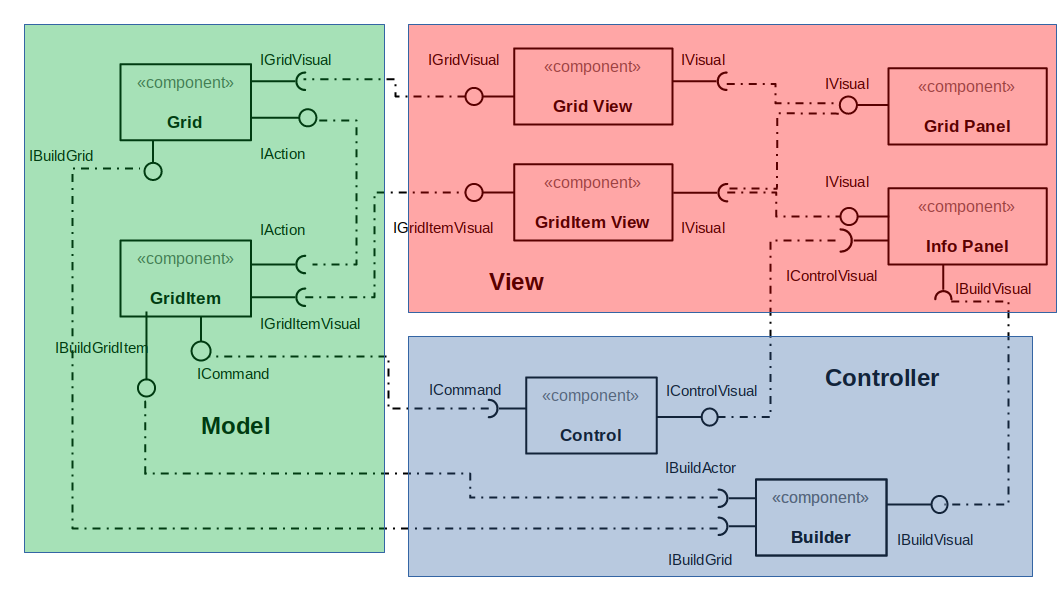
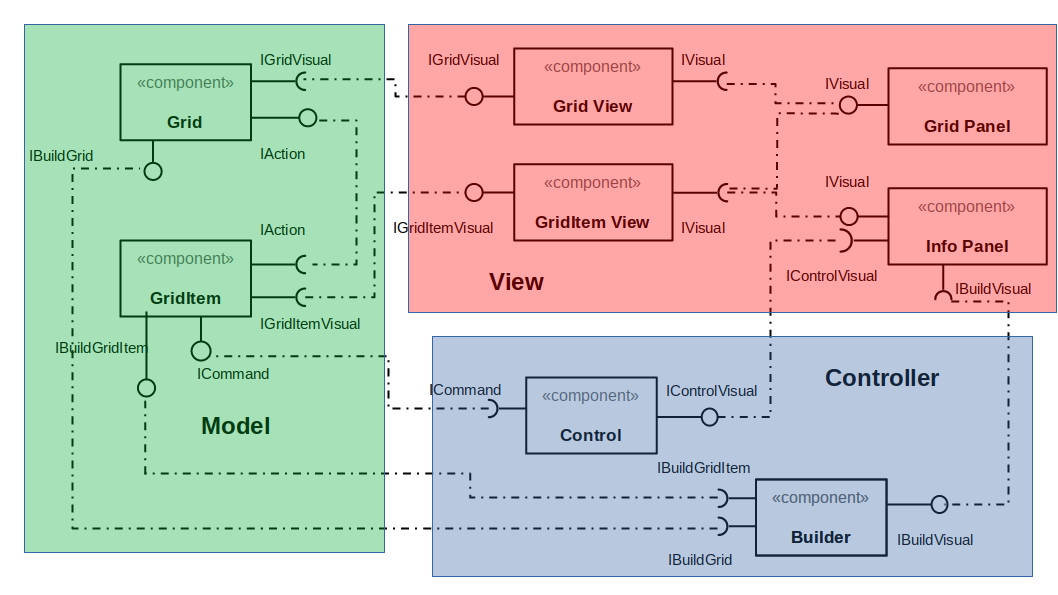
Update images in presentation_model folder

Changed region(s): [[0.3743, 0.5445, 0.4367, 0.9681], [0.6238, 0.7563, 0.7174, 0.8168]]

diff --git a/MC322 Final Project/README.md b/MC322 Final Project/README.md
@@ -24,14 +24,14 @@ O jogo será finalizado caso o ator principal fique com um nível de energia mui
 ## Documentação dos Componentes
 ## Diagramas  
 ### Diagrama Geral  
-[imagem](https://docs.google.com/presentation/d/1jEmcjWWWtM5D-awFN7nWn23QsqWs9HS2jZpnAJ8xyXk/edit#slide=id.gddce5a0f9d_0_14)
-<br/><br/>
 ![imagem](assets/presentation_model/projeto_final_arquitetura_v1.png)
 <br/><br/>
 No diagrama acima, podemos ver a arquitetura usado no projeto, Model-View-Controller (MVC),
  e como os componentes se comunicam entre si, além de qual parte da arquitetura os componentes pertencem.
   
 ## Diagrama Geral de Componentes  
+![imagem](assets/presentation_model/projeto_final_componentes_v1.png)
+
 ### Componente  
   
 <Resumo do papel do componente e serviços que ele oferece.>
@@ -53,7 +53,7 @@ Interface <nome da interface>
 <Resumo do papel da interface.>
   
 ## Plano de Exceções  
-![link](https://github.com/dan7sc/danaoop/blob/main/MC322%20Final%20Project/assets/exceptionPlan/error.png)  
+![link](assets/exceptionPlan/error.png)
   
 <Elabore um diagrama com a hierarquia de exceções como detalhado abaixo>  
   
